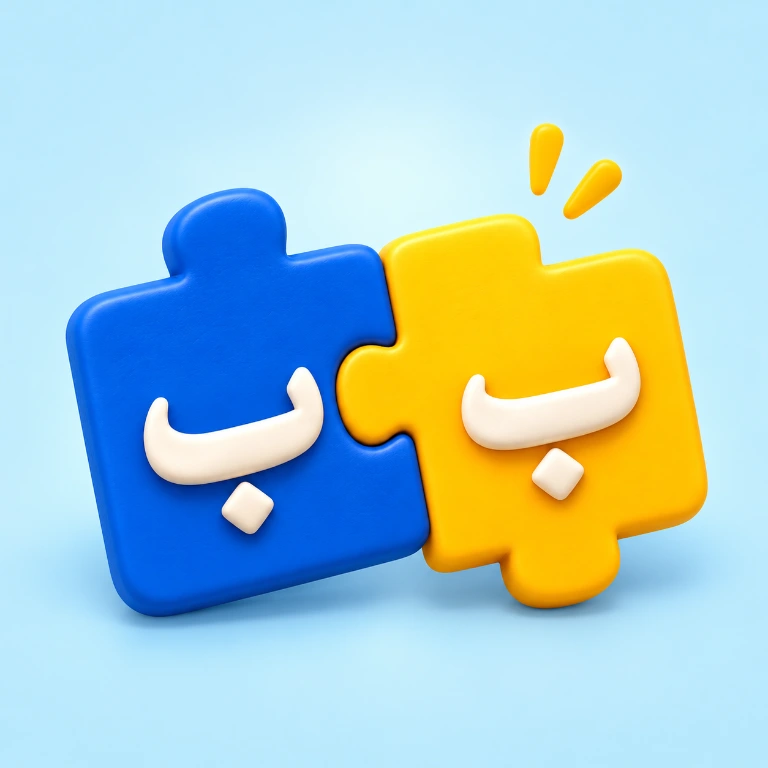
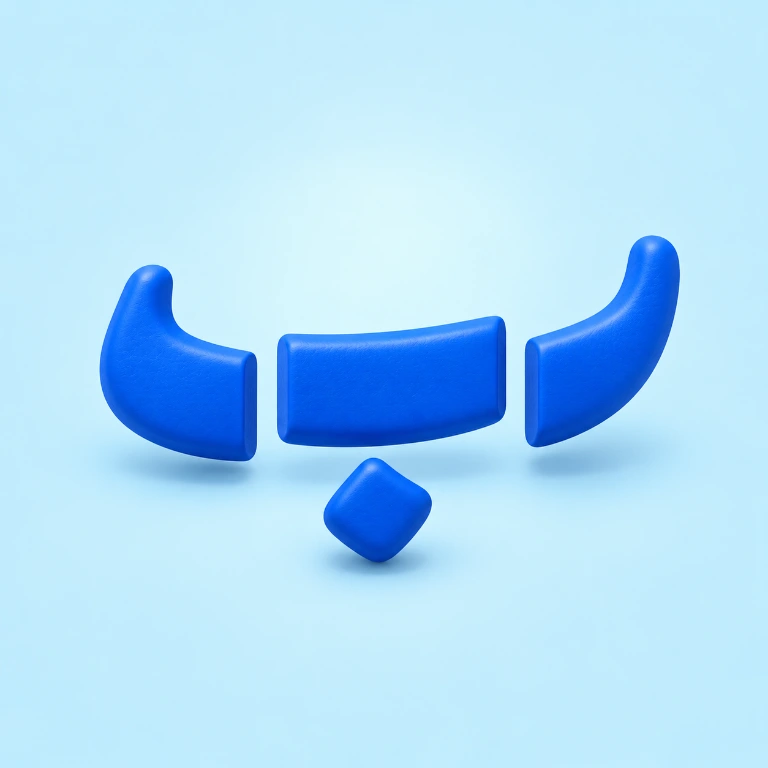
Correct puzzle, matching and sorting tile artwork to reflect gameplay

diff --git a/references/concept-art/README.md b/references/concept-art/README.md
@@ -36,4 +36,15 @@ Generated tile lettering is illustrative; check letter forms and dot counts befo
 
 The owner chose complete generated tiles after reviewing the first composed version: flat glyphs and separate objects did not share a convincing material. Consistency now comes from art direction and the shared image-button component, while each tile can have a bespoke design. The source square images have edge-to-edge pastel backgrounds; the app applies the outer rounded silhouette once.
 
+## Gameplay accuracy
+
+Read the corresponding game scene before generating tile art. Show the actual learning action and check the answer relationships, as well as the letter shapes and dots.
+
+- **LetterPuzzle:** fragments of one letter fit back together. Do not put a complete letter on every puzzle piece. The shape guide in `letter-puzzle-shape-guide.png` was made from the app's real isolated ب glyph, cut into three vertical strips like the game.
+- **Memory:** a revealed letter matches a word picture beginning with that letter, such as ب and a goat (بکری). Two identical pictures describe a different game.
+- **ConnectPairs:** connect right-column letters to their matching left-column pictures, such as ب → goat and ا → grapes (انگور). Do not connect duplicate letters.
+- **Baskets:** sort similar-looking letters from one shape family, such as ب and ت, into baskets labelled with the matching letters. The game does not sort fruit.
+
+The four corrected tiles remain complete generated images with the original pastel backgrounds and sculpted clay material. Gameplay, ordering, navigation and the separate character are unchanged.
+
 The full-tile generation prompts and lettering corrections are kept in [full-tile-prompts.json](full-tile-prompts.json). Earlier transparent-object prompts remain in [asset-prompts.json](asset-prompts.json) as design history.
